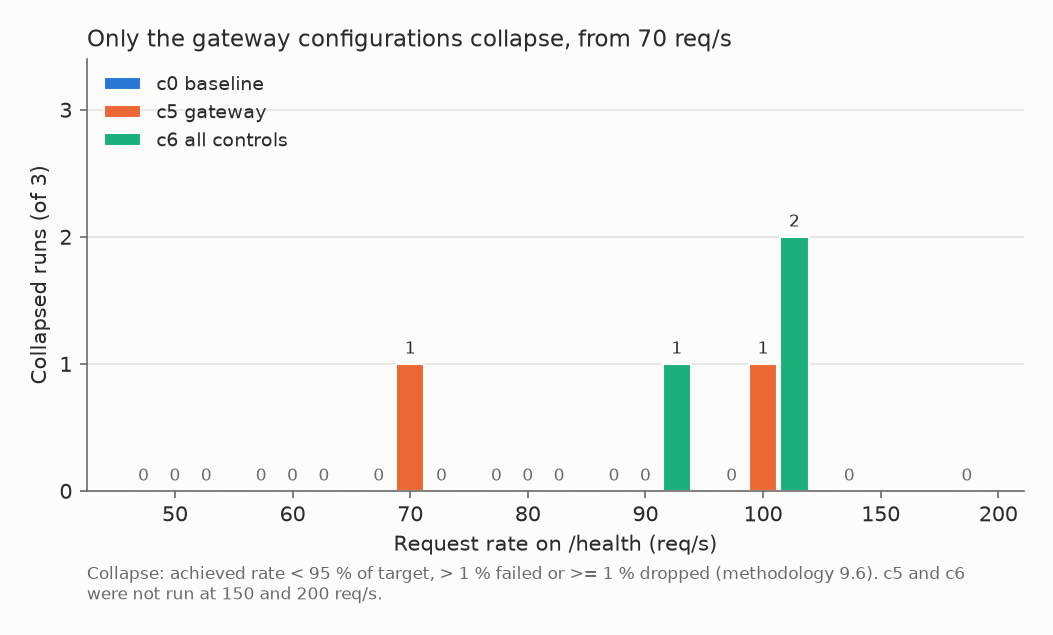
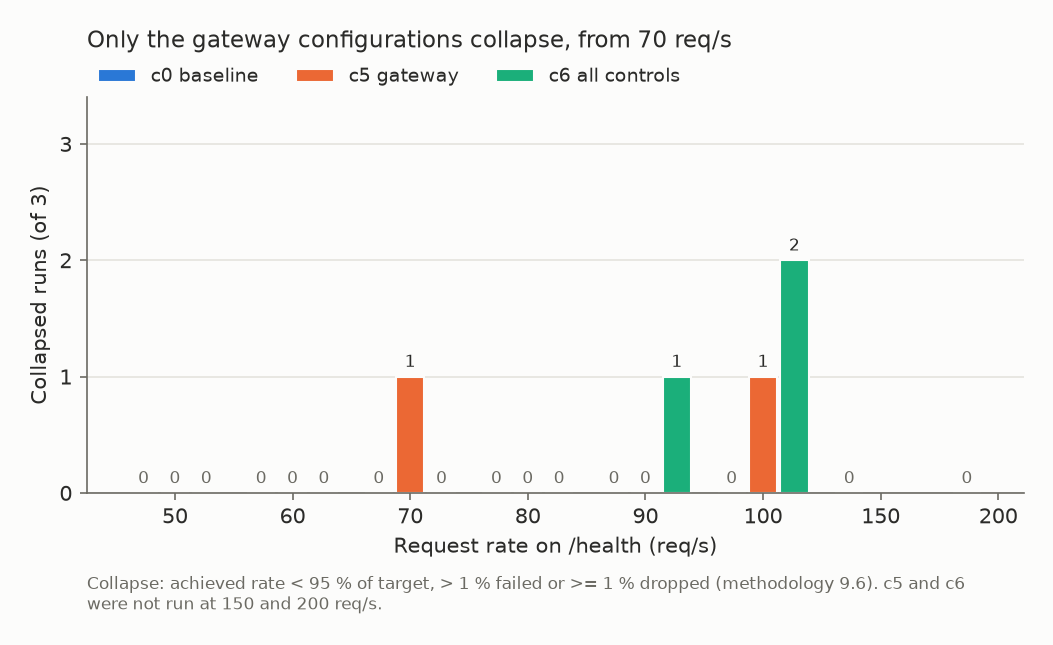
fix(figures): legend above the plot, check labels for overlaps (#24)

diff --git a/scripts/plot_load.py b/scripts/plot_load.py
@@ -52,16 +52,89 @@ def style_axes(ax) -> None:
 
 
 def note(ax, text: str) -> None:
-    """Small explanatory note under the x-axis label."""
-    ax.text(
-        0,
-        -0.17,
+    """Small explanatory note, placed 8 pt under the x-axis label."""
+    ax.annotate(
         textwrap.fill(text, 105),
-        transform=ax.transAxes,
+        xy=(0, 0),
+        xycoords=("axes fraction", ax.xaxis.label),
+        xytext=(0, -8),
+        textcoords="offset points",
         va="top",
         color=MUTED,
         fontsize=8,
     )
+
+
+def legend_above(ax) -> None:
+    """Legend in one row between the title and the plot area, so it can never
+    cover data, reference lines or labels inside the axes."""
+    ax.legend(
+        frameon=False,
+        loc="lower left",
+        bbox_to_anchor=(0, 1.0),
+        ncol=3,
+        borderaxespad=0.2,
+        labelcolor=INK,
+        fontsize=9,
+    )
+
+
+def _overlap(a, b, gap: float = 4) -> bool:
+    """True when two boxes (pixels) are closer than gap pixels."""
+    return (
+        a.x0 < b.x1 + gap
+        and b.x0 < a.x1 + gap
+        and a.y0 < b.y1 + gap
+        and b.y0 < a.y1 + gap
+    )
+
+
+def check_layout(fig, ax) -> None:
+    """Stops with an error when the legend or a text label covers a data point,
+    a line (including the zero line), a bar or another label. Runs before
+    saving, so a figure with collisions is never written."""
+    fig.canvas.draw()
+    renderer = fig.canvas.get_renderer()
+    boxes = [
+        (f"label '{t.get_text()}'", t.get_window_extent(renderer))
+        for t in ax.texts
+        if t.get_text()
+    ]
+    if ax.get_legend() is not None:
+        boxes.append(("legend", ax.get_legend().get_window_extent(renderer)))
+    boxes.append(("x-axis label", ax.xaxis.label.get_window_extent(renderer)))
+    boxes.append(("title", ax.title.get_window_extent(renderer)))
+
+    points = []
+    for line in ax.get_lines():
+        xy = line.get_transform().transform(line.get_xydata())
+        for (x0, y0), (x1, y1) in zip(xy, xy[1:], strict=False):
+            points += [
+                (x0 + (x1 - x0) * i / 40, y0 + (y1 - y0) * i / 40) for i in range(41)
+            ]
+    for coll in ax.collections:
+        points += list(coll.get_offset_transform().transform(coll.get_offsets()))
+    bars = [p.get_window_extent(renderer) for p in ax.patches if p.get_height()]
+
+    problems = []
+    for name, box in boxes:
+        if any(box.contains(x, y) for x, y in points):
+            problems.append(f"{name} covers a data point or line")
+        if any(_overlap(box, bar) for bar in bars):
+            problems.append(f"{name} overlaps a bar")
+    for i, (n1, b1) in enumerate(boxes):
+        for n2, b2 in boxes[i + 1 :]:
+            if _overlap(b1, b2):
+                problems.append(f"{n1} overlaps {n2}")
+    if problems:
+        sys.exit("layout check failed:\n  " + "\n  ".join(problems))
+
+
+def save(fig, ax, out: Path) -> None:
+    fig.tight_layout()
+    check_layout(fig, ax)
+    fig.savefig(out, facecolor=SURFACE, bbox_inches="tight", pad_inches=0.2)
+    plt.close(fig)
 
 
 def health_runs(runs: dict) -> dict:
@@ -132,16 +205,15 @@ def overhead_figure(h: dict, rates: list[int], out: Path) -> None:
         loc="left",
         color=INK,
         fontsize=11,
+        pad=24,
     )
     note(
         ax,
         "Line: median of runs without collapse; dots: single runs. Missing points: "
         "fewer than 2 runs without collapse. Kind, 3 repetitions.",
     )
-    ax.legend(frameon=False, loc="lower right", labelcolor=INK, fontsize=9)
-    fig.tight_layout()
-    fig.savefig(out, facecolor=SURFACE, bbox_inches="tight", pad_inches=0.2)
-    plt.close(fig)
+    legend_above(ax)
+    save(fig, ax, out)
 
 
 def collapse_figure(h: dict, rates: list[int], out: Path) -> None:
@@ -189,16 +261,15 @@ def collapse_figure(h: dict, rates: list[int], out: Path) -> None:
         loc="left",
         color=INK,
         fontsize=11,
+        pad=24,
     )
     note(
         ax,
         "Collapse: achieved rate < 95 % of target, > 1 % failed or >= 1 % dropped "
         "(methodology 9.6). c5 and c6 were not run at 150 and 200 req/s.",
     )
-    ax.legend(frameon=False, loc="upper left", labelcolor=INK, fontsize=9)
-    fig.tight_layout()
-    fig.savefig(out, facecolor=SURFACE, bbox_inches="tight", pad_inches=0.2)
-    plt.close(fig)
+    legend_above(ax)
+    save(fig, ax, out)
 
 
 def main() -> None:
